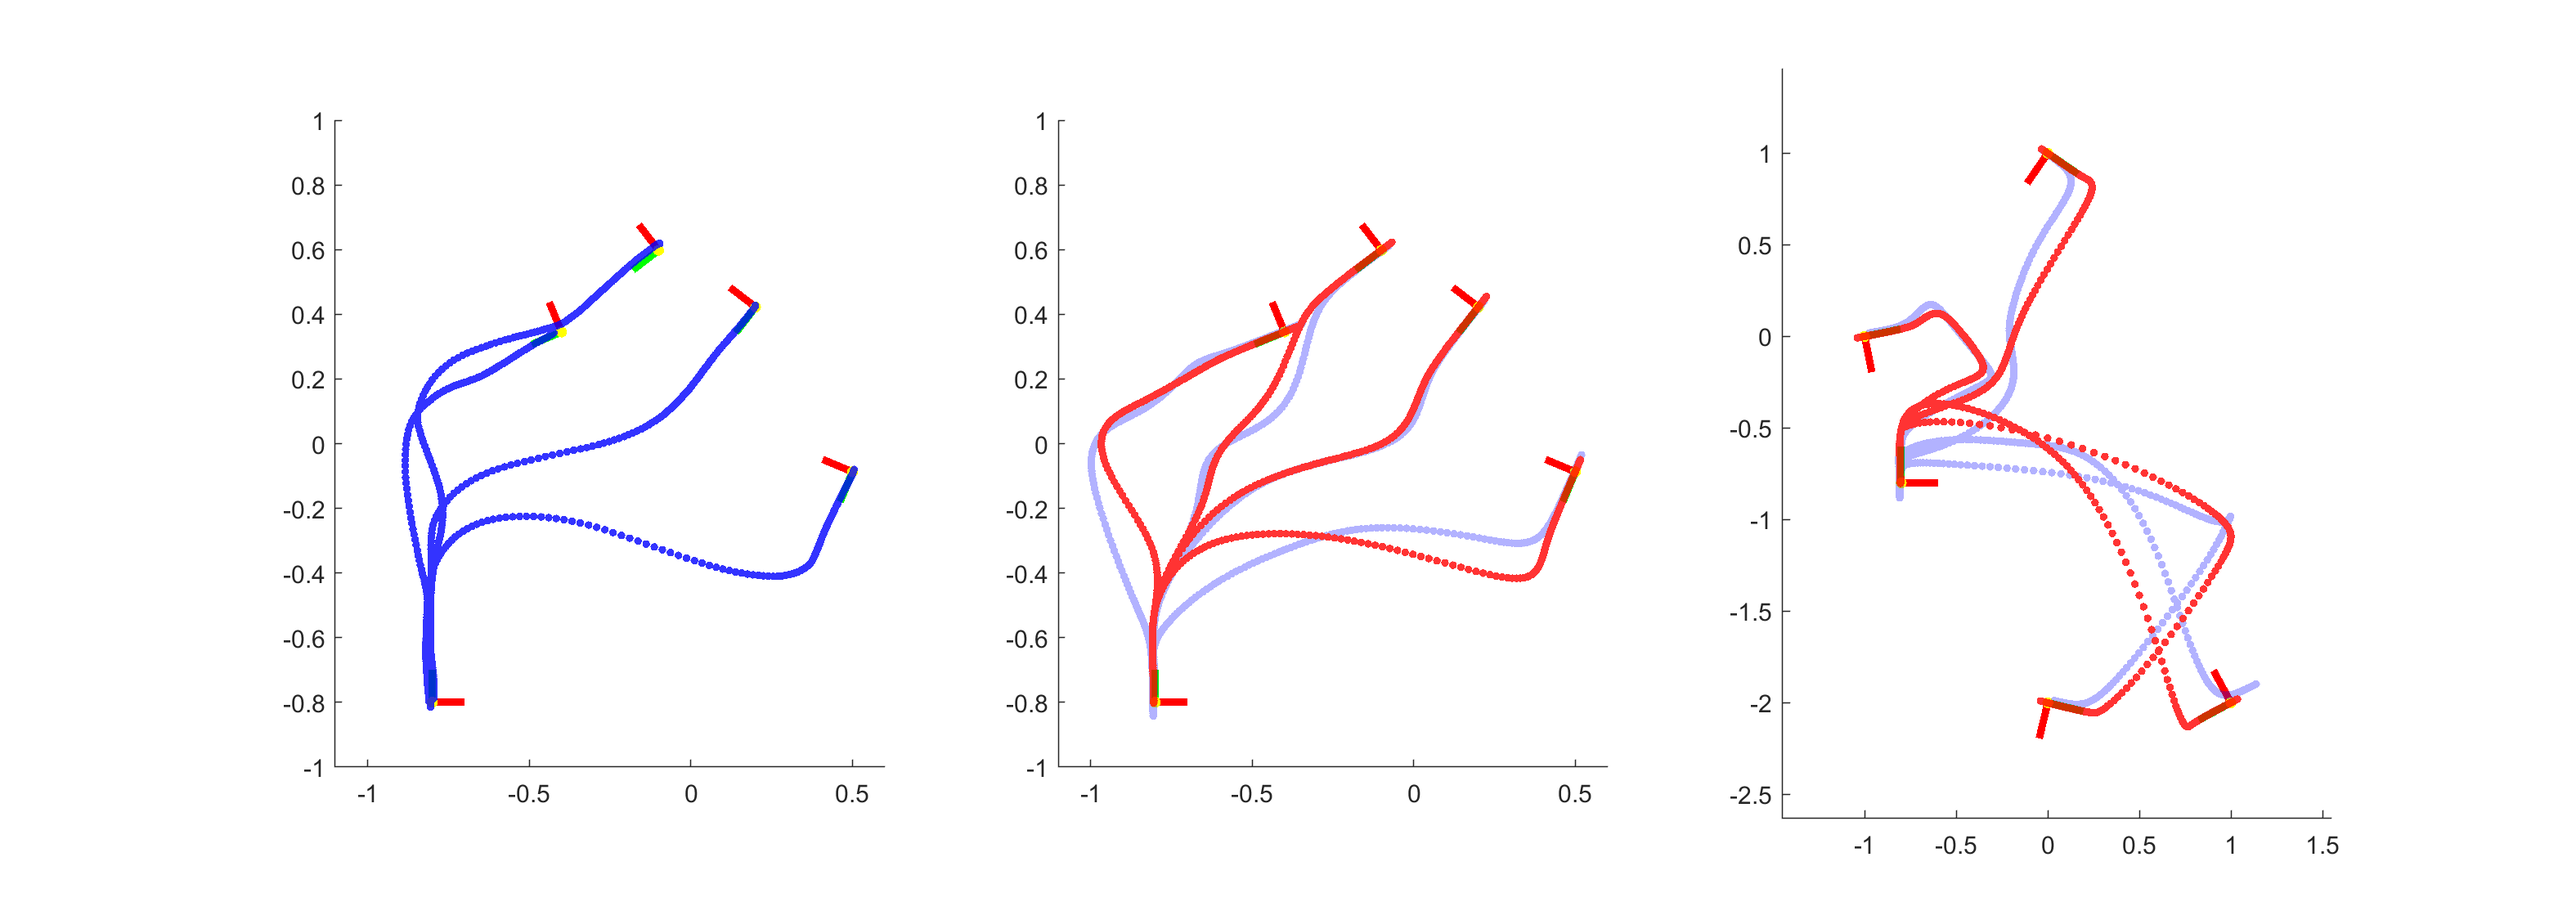
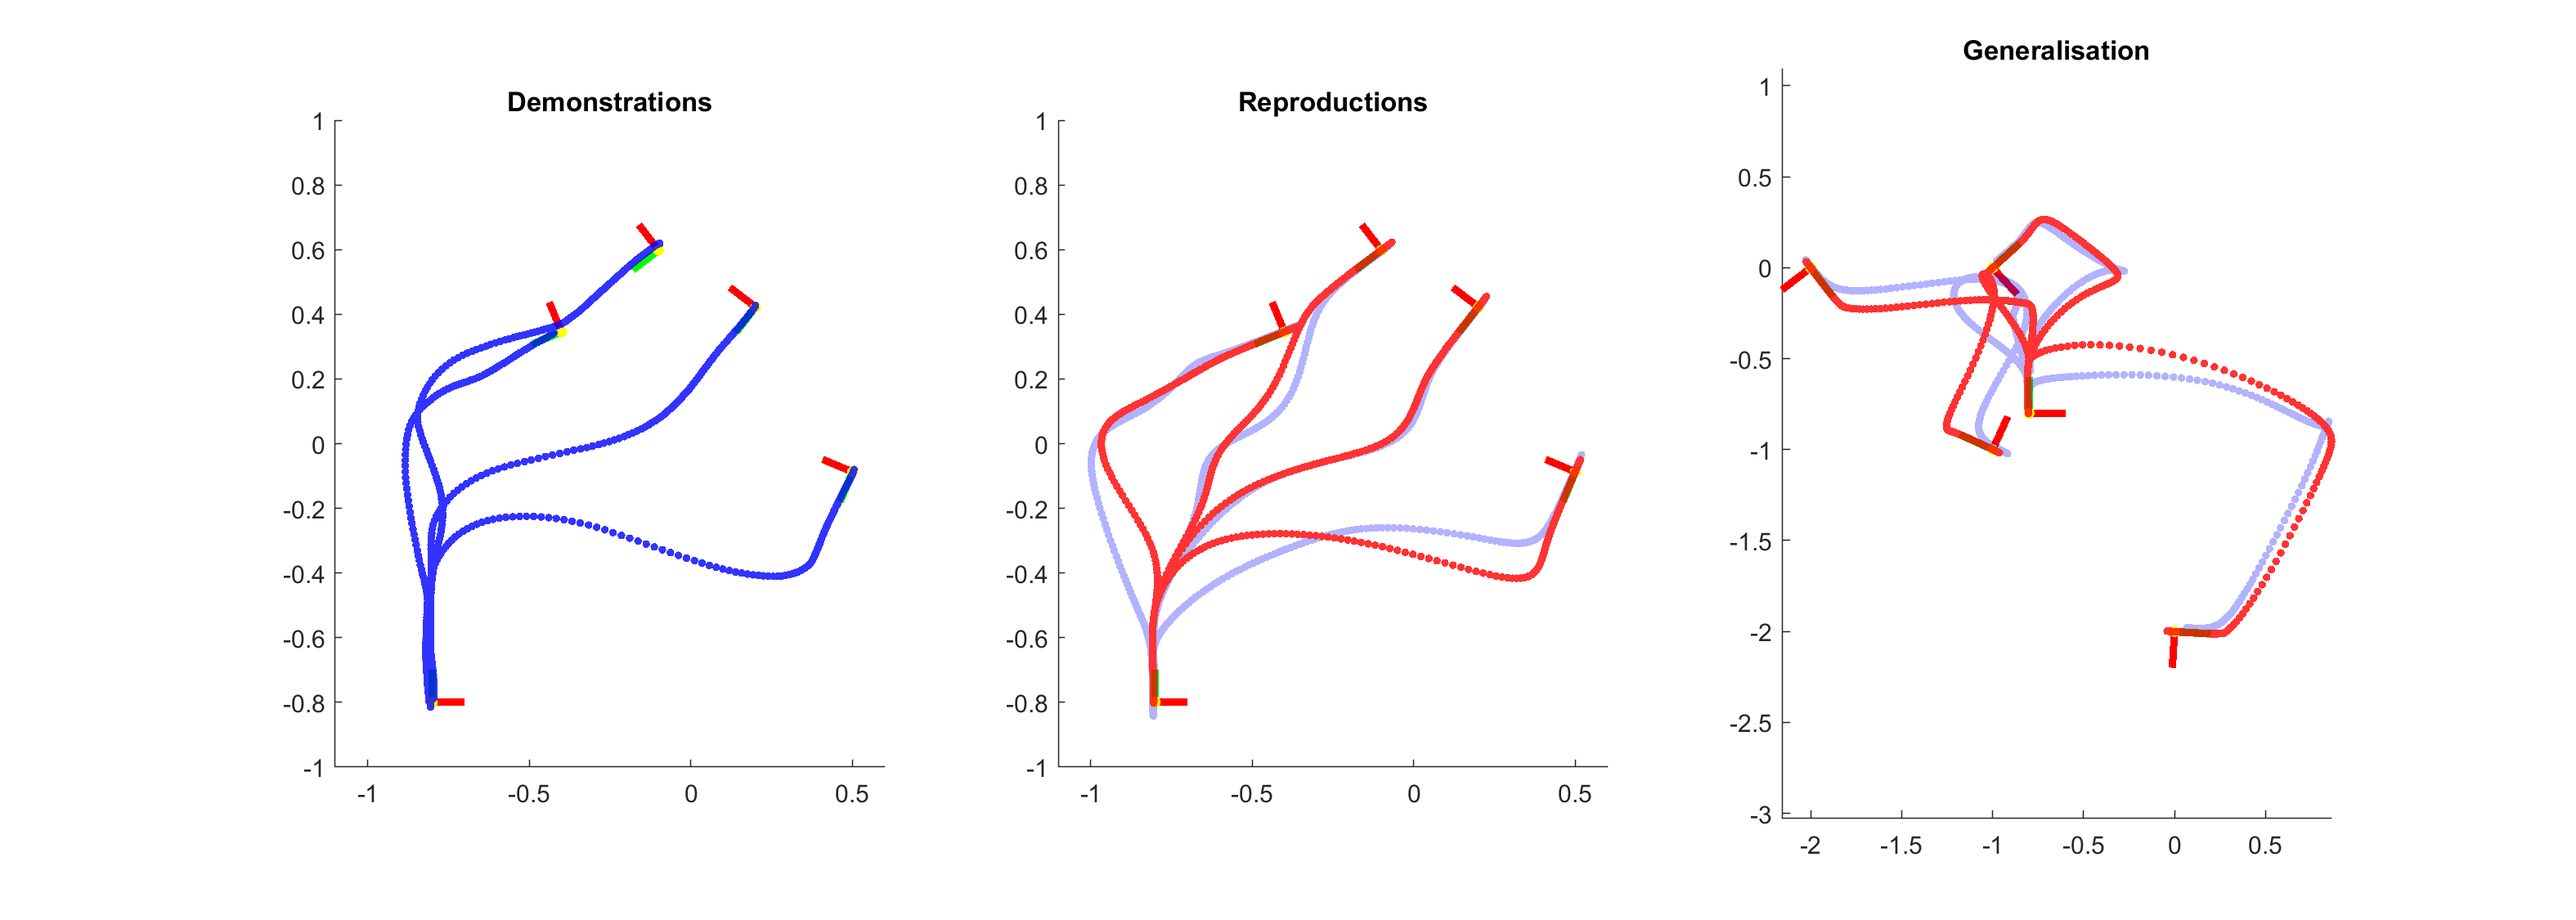
readme fix

diff --git a/demo_wTPGMM.m b/demo_wTPGMM.m
@@ -154,6 +154,7 @@ figure('position',[10,10,1400,500]); hold on;
 
 % Original Demos
 subplot(1,3,1); hold on;
+title('Demonstrations')
 plot_alpha = 0.8;
 scatter_s(s,'b', plot_alpha)
 frame_size = 0.1;
@@ -164,6 +165,7 @@ ylim([-1 1])
 
 % Demo reproductions - TPGMR blue, alphatTPGMR red
 subplot(1,3,2); hold on;
+title('Reproductions')
 plot_alpha = 0.3;
 scatter_s(repo_uw, 'b', plot_alpha)
 plot_alpha = 0.8;
@@ -175,6 +177,7 @@ ylim([-1 1])
 
 % Generalised reproductions - TPGMR blue, alphatTPGMR red
 subplot(1,3,3); hold on;
+title('Generalisation')
 plot_alpha = 0.3;
 scatter_s(gen_uw, 'b', plot_alpha)
 plot_alpha = 0.8;
